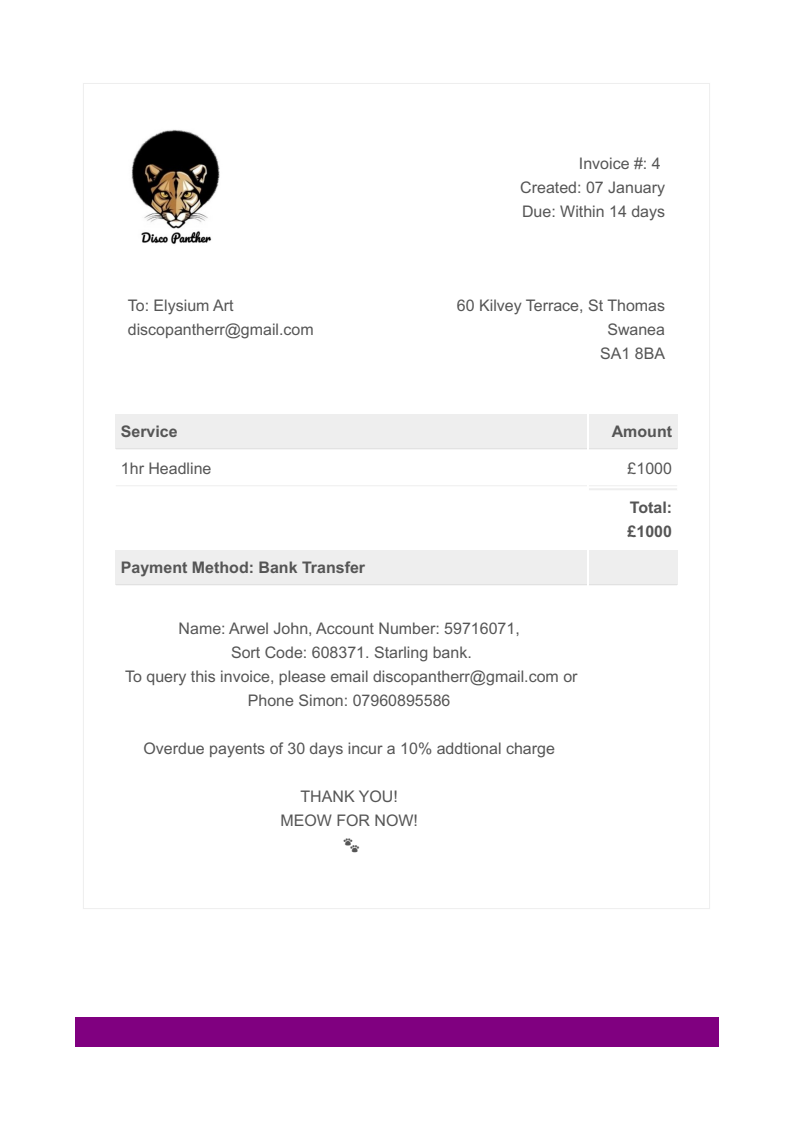
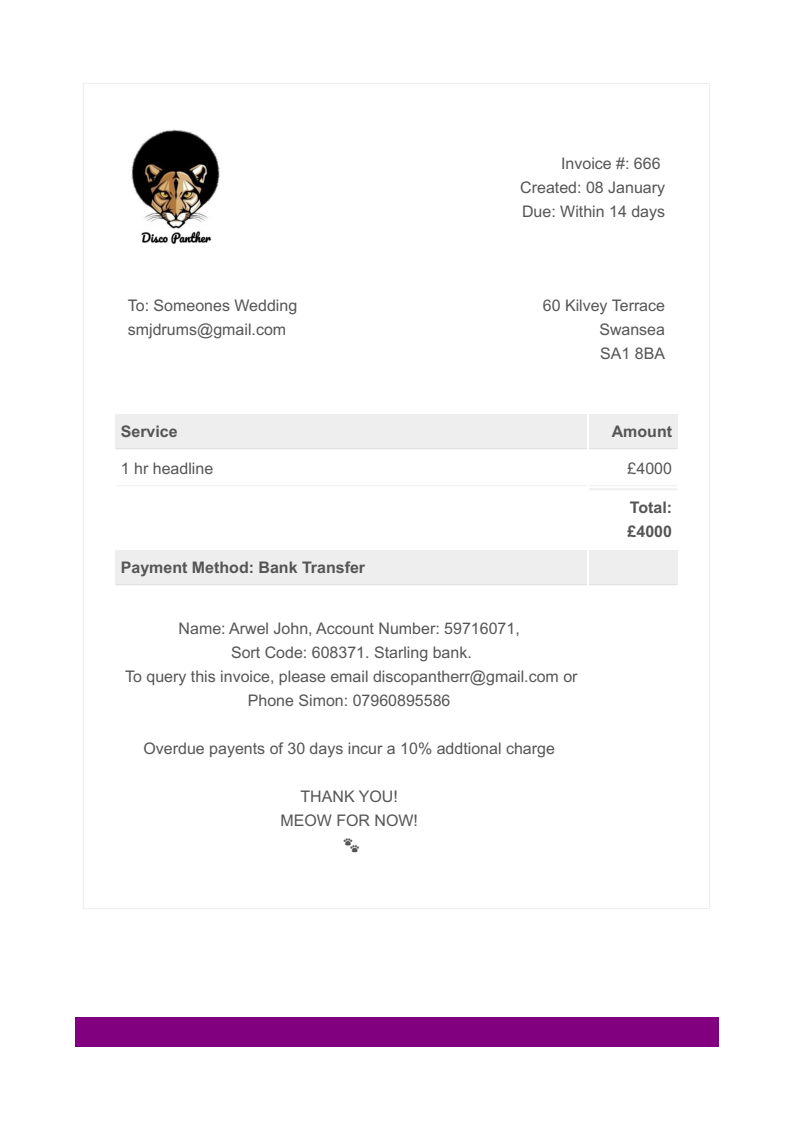
Update for PDF to send to client - complete

diff --git a/invoice.py b/invoice.py
@@ -9,8 +9,6 @@ import smtplib
 from email.message import EmailMessage
 
 TODAY = datetime.today().strftime("%d %B")
-# EMAIL = "discopantherr@gmail.com"
-# PASSWORD = "drzf kvcn dorb odbw"
 
 # TODO consider logic for invoice number automation
 # TODO lowercase form input
@@ -55,22 +53,18 @@ class InvoiceForm(Form):
 class GenerateInvoice(MethodView):
     """Takes user input data and writes to PDF"""
 
-    # def __init__(self):
-    #     self.client = "discopantherr@gmail.com"
-    #     self.invoice_id = 0
-
     def post(self):
 
-        # TODO i shouldnt need to change anything in here to access the client var?
+        global client_email
 
         user_input = InvoiceForm(request.form)
 
         # Gather information from HTML input fields
         performance = str(user_input.data["performance"])
         company_name = str(user_input.data["company_name"]).title()
-        client = str(user_input.data["email"]).lower()
-        amount = int(user_input.data["amount"])
-        invoice_id = int(user_input.data["invoice_id"])
+        client_email = str(user_input.data["email"]).lower()
+        amount = str(user_input.data["amount"])
+        invoice_id = str(user_input.data["invoice_id"])
         add1 = str(user_input.data["add1"]).title()
         city = str(user_input.data["city"]).title()
         postcode = str(user_input.data["postcode"]).upper()
@@ -79,7 +73,7 @@ class GenerateInvoice(MethodView):
         # tax = int(user_input.data["tax"])
 
         rendered = render_template("invoice_design.html", date=TODAY, add1=add1, id=invoice_id,
-                                   postcode=postcode, city=city, company=company_name, email=client, perf=performance, fee=amount)
+                                   postcode=postcode, city=city, company=company_name, email=client_email, perf=performance, fee=amount)
         html = HTML(string=rendered)
         html.write_pdf(f'./pdf/invoice.pdf')
 
@@ -88,28 +82,25 @@ class GenerateInvoice(MethodView):
         pdf.RasterizeToImageFiles(
             f"static/images/invoice.png", DPI=96)
 
-        # Creates connection with gmail, populates email fields and send email.
-
         return render_template("send_pdf.html")
+
+# TODO add bcc
 
 
 class SendEmail(GenerateInvoice):
+    """# Creates connection with gmail, populates email fields and send email."""
 
     def send_email(self):
 
-        EMAIL = "discopantherr@gmail.com"
-        PASSWORD = "drzf kvcn dorb odbw"
+        print(client_email)
 
-        with smtplib.SMTP('smtp.gmail.com', port=587) as connection:
-            connection.starttls()
-            connection.login(user=EMAIL, password=PASSWORD)
-            connection.sendmail(from_addr=EMAIL, to_addrs=EMAIL,
-                                msg=f"subject:TEST TEST \n\nFrom: {EMAIL}\nMessage: TEST TEST")
+        DP_EMAIL = "discopantherr@gmail.com"
+        PASSWORD = "drzf kvcn dorb odbw"
 
         msg = EmailMessage()
         msg['Subject'] = 'Perfomance Invoice'
-        msg['From'] = EMAIL
-        msg['To'] = ""
+        msg['From'] = DP_EMAIL
+        msg['To'] = client_email, DP_EMAIL
         msg.set_content(
             'Hey there,\n\nPlease see the attached invoice from our recent performance\n\nAll the best\n\nDisco Panther 🐾')
 
@@ -120,7 +111,16 @@ class SendEmail(GenerateInvoice):
             msg.add_attachment(file_data, maintype='application',
                                subtype='octet-stream', filename=file_name)
         with smtplib.SMTP_SSL('smtp.gmail.com', port=465) as smtp:
-            smtp.login(EMAIL, PASSWORD)
+            smtp.login(DP_EMAIL, PASSWORD)
             smtp.send_message(msg)
 
         return render_template("sent_pdf.html")
+
+
+# ============================================================
+
+# with smtplib.SMTP('smtp.gmail.com', port=587) as connection:
+#     connection.starttls()
+#     connection.login(user=EMAIL, password=PASSWORD)
+#     connection.sendmail(from_addr=EMAIL, to_addrs=EMAIL,
+#                         msg=f"subject:TEST TEST \n\nFrom: {EMAIL}\nMessage: TEST TEST")

diff --git a/server.py b/server.py
@@ -27,12 +27,13 @@ app.add_url_rule(
 
 # sent pdf imports ======================================
 
-send = SendEmail()
+# send = SendEmail()
 
 
 @app.route("/send_pdf", methods=['POST'])
 def send_pdf():
-    send.send_email()
+    # GenerateInvoice().post()
+    SendEmail().send_email()
     return render_template('sent_pdf.html')
 
 # Login page logic ======================================

diff --git a/class_test.py b/class_test.py
@@ -1,0 +1,17 @@
+class A:
+
+    def post(self):
+        client = "smjdrums@gmail.com"
+        A.test = client
+
+
+class B(A):
+
+    def send_email(self):
+        B.output = A.test
+        print(B.output)
+
+
+B().send_email()
+
+A().post()
